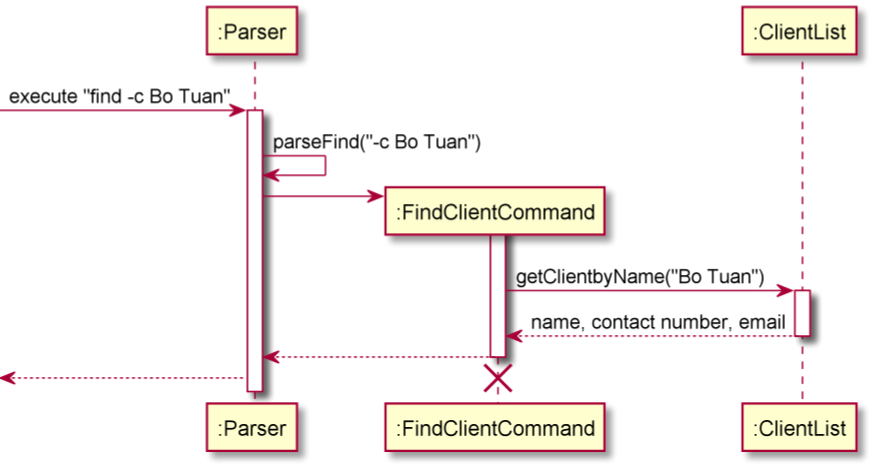
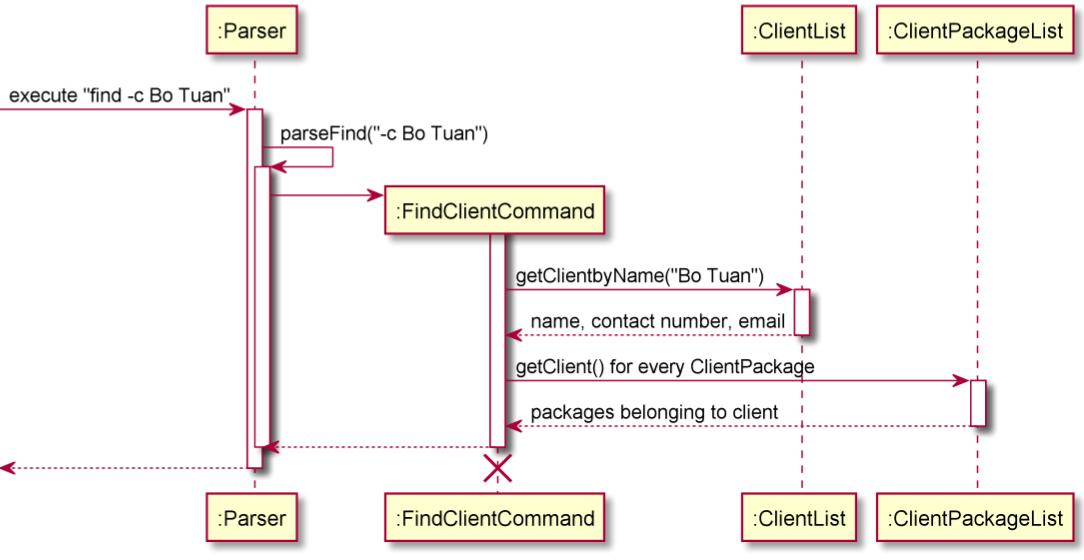
Added Ui component in UG, minor changes to UML diagrams

Changed region(s): [[0.0, 0.0, 1.0, 1.0], [0.1849, 0.0, 0.3699, 0.1486]]

diff --git a/docs/DeveloperGuide.md b/docs/DeveloperGuide.md
@@ -264,9 +264,9 @@ Depending on the type of list command being called, these command types will be 
 
 The ```find``` feature is to be used to query for a particular client or tour, providing extensive information about it. It is facilitated by the ```parse``` function in the ```Parser``` class, which determines which type of Object (```Client``` or ```Tour```) is to be parsed and which command to be executed. It is implemented by following operations:
 
-* ```FindClientCommand(String name)```
-
+* ```FindClientCommand(String substring)```
 * ```FindTourCommand(String code)```
+* ```FindFlightCommand(String code)```
 
 These commands extend from the Command class.
 
@@ -285,26 +285,31 @@ Firstly, assume that in previous sessions, commands were executed to add clients
 
 #### <u>Finding a particular client</u>
 
-**Step 1**: The user executes ```find -c Bo Tuan``` to query if a client named
+**Step 1**: The user executes ```find -c bo``` to query if a client named
 Bo Tuan exists in the ClientList. The ```parse``` function in the ```Parser```
 class takes the command, and the first word in it (```find```) means that the
 ```parseFind()``` is to be called to determine which type of Object is to be
 queried for. The second word (```-c```) means that a the ```FindClientCommand()``` is
-executed with the parameter ```Bo Tuan```
+executed with the parameter ```bo```
 
 
 
 **Step 2**: The ```FindClientCommand``` iterates through each ```Client``` object in the ```ClientList```.
 For every ```Client```, the ```getName()``` function is called to retrieve the name attribute of the Client.
-If the name attribute is equals to ```Bo Tuan```, the ```Client``` object
+The name attribute is then converted to lower case for comparison with the substring.
+If the name attribute is contains the substring```bo```, the ```Client``` object
 is printed onto the console terminal.
 
-<br>
+**Step 3**: In addition, the ```FindClientCommand``` iterates through each ```ClientPackage``` object in the ```ClientPackageList```.
+For every ```ClientPackage```, the ```getClient()``` function is called to retrieve the client attribute of the ClientPackage.
+If the client attribute is equals to the same ```Client``` object that was found in Step 2, the respective client package will
+be printed onto the console terminal.
 
 
 The following activity diagram summarizes the following steps.
 
-    ![image](findclient.png) 
+![image](findclient.png)
+(outdated feelsbad)
 
 <br>
 
@@ -384,9 +389,34 @@ The following activity diagram summarizes the following steps.
   * Pros: fast querying time.
   * Cons: If the client/tour/flight is not in any package, none of their information can be accessed, including their contact number.
 
-  
+<br>
+
+##UI Component
+<hr>
+
+**API: `Ui.java`**
+
+The Ui component is the means by which Command(s) can receive inputs from the user, as
+well as display information to them, all through the console terminal.
+
+After the user typed in an input into the console terminal and presses 'Enter':
+* the ```Ui``` reads the input typed in by the user on the console terminal.
+* the ```Parser``` class parses the read input and calls the apprpriate ```Command```. (see the ```Parser``` and ```Command``` sections
+for more information)
+* the called ```Command``` calls a function in the ```Ui``` to print the appropriate information onto
+the console terminal.
+
+<br>
+
+The diagram below shows the class diagram of the Ui component, in relation with
+other major components:
+
+(insert image)
+
+<br>
 
 ## Product scope
+<hr>
 
 ### Target user profile
 
@@ -399,27 +429,36 @@ The following activity diagram summarizes the following steps.
 
 * Manage tour information faster than typical mouse /GUI driven apps
 
+<br>
+
 ## User Stories
+<hr>
 
 Priorities: High (must have) - `* * *`, Medium (nice to have) - `* *`, Low (unlikely to have) - `*`
 
 |Priority| As a ... | I want to ... | So that I can ...|
 |--------|----------|---------------|------------------|
 |`* * *`|new user|see usage instructions|refer to them when I forget how to use the application|
-|`* * *`|user|add a new client| |
-|`* * *`|user|delete a new client|remove clients that cancelled their travel plans|
-|`* * *`|user|add a new tour package|update the tour package database|
-|`* * *`|user|delete a tour package|update the tour package database|
-|`* * *`|user|add flight timings|keep track of flights|
+|`* * *`|user|add a new entry of specific data type| add data into the current database|
+|`* * *`|user|delete an existing entry of specific data type |remove outdated data from the current database|
+|`* *`|user with large amounts of data|find an existing entry of specific data type |locate a specific entry easily|
+|`* *`|user with large amounts of data|sort existing entries of specific data type |make smarter recommendations to clients based on their preferences|
+|`* *`|user|check number of clients subscribed to a tour / flight|check the popularity, vacancy of certain tours / flights|
 
+
+Note: 'specific data type' refers to either clients, tours, flights or tour packages.
+
+<br>
 
 ## Non-Functional Requirements
+<hr>
 
-{Give non-functional requirements}
+* Should work on any mainstream OS as long as it has Java 11 or above installed.
+* Should be able to hold up to 1000 entries without a noticeable sluggishness in performance for typical usage.
+* A user with above average typing speed for regular English text (i.e. not code, not system admin commands) should
+be able to accomplish most of the tasks faster using commands than using the mouse.
 
-## Glossary
-
-* *glossary item* - Definition
+<br>
 
 ## Instructions for manual testing
 
